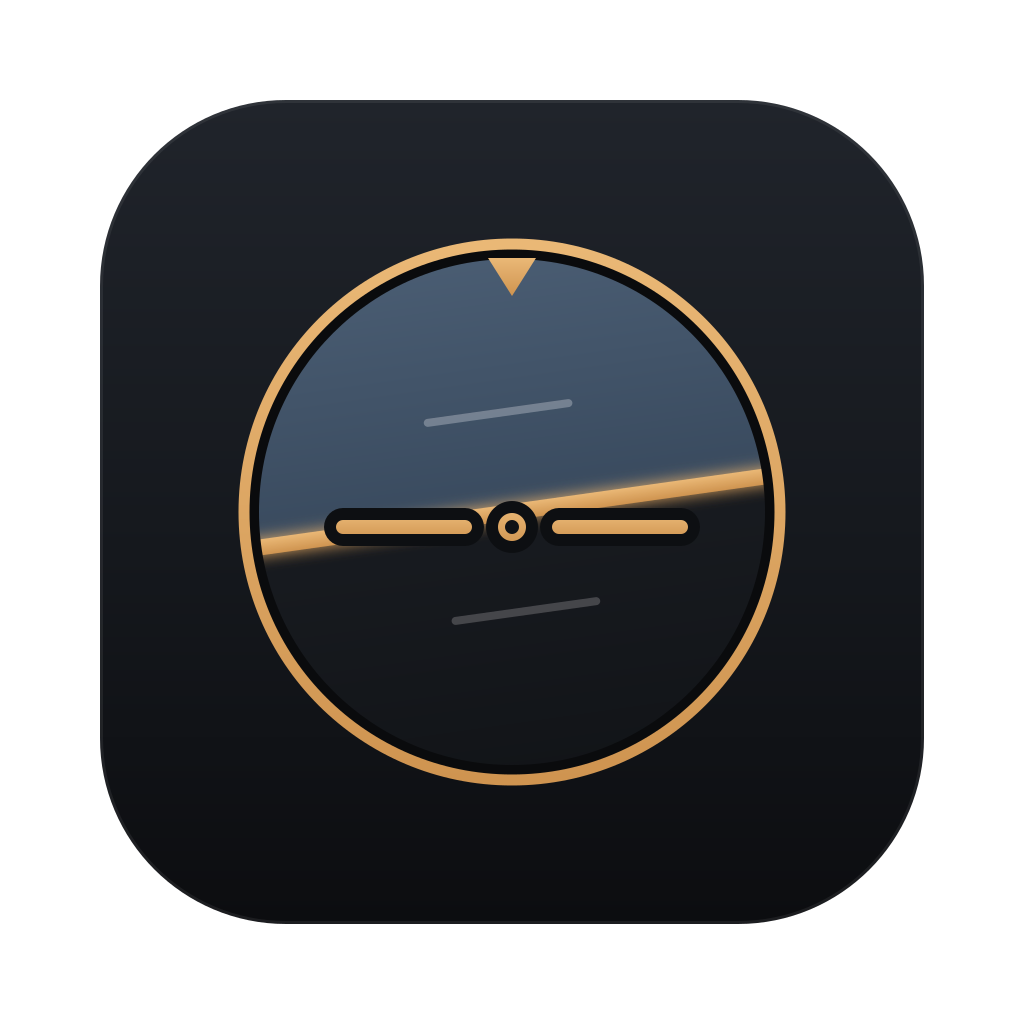
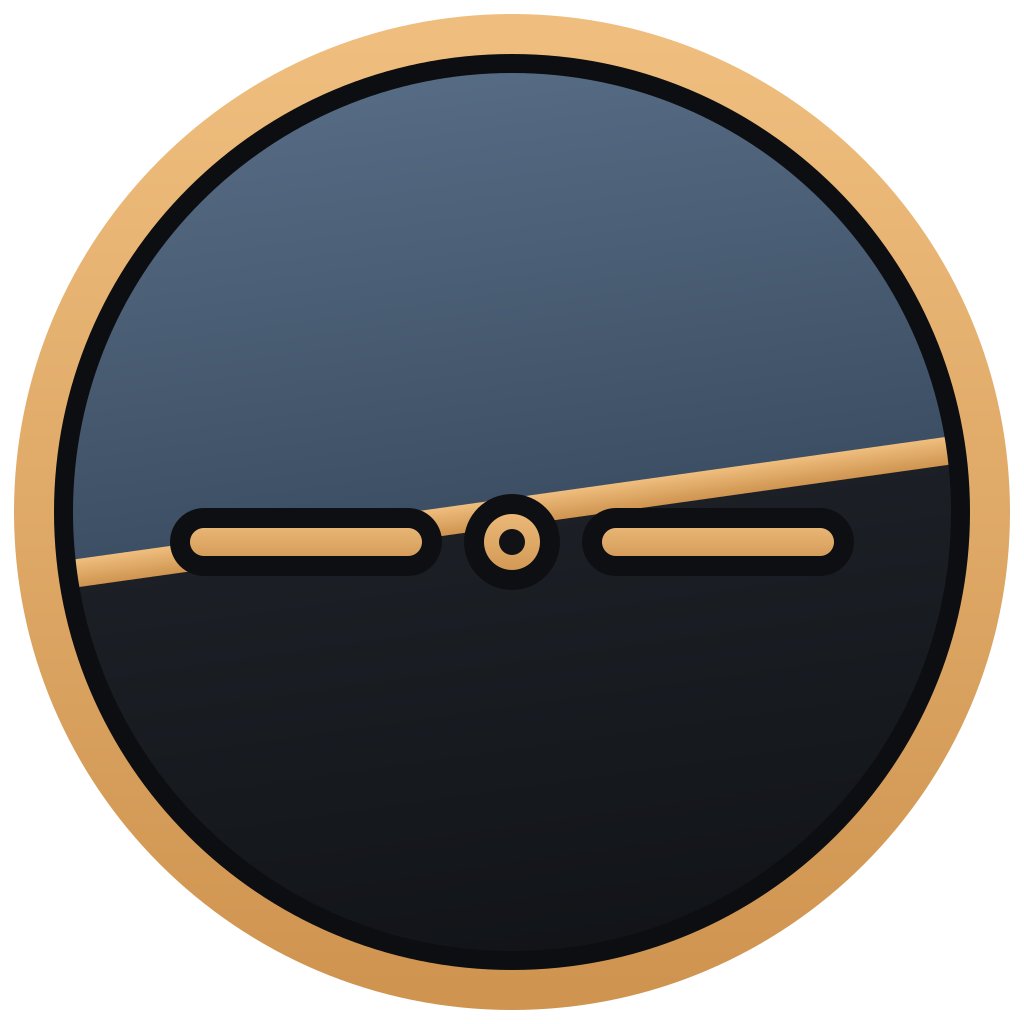
fix(marca): glifo dedicado da UI + semáforos alinhados de verdade
Ícone: o Wordmark/Reticle e o empty state usavam o ícone COMPLETO do Dock
(squircle escuro com margem) → em 18px no dark virava um blob preto
ilegível. Agora usa um GLIFO dedicado: só o mostrador do instrumento,
full-bleed, elementos mais grossos, aro brass que lê em qualquer tema.
(O ícone do Dock/.app segue o squircle; são assets diferentes de propósito.)

Semáforos: o decorum reaplica a CONSTANTE y=16 num observer de resize dele,
sobrescrevendo qualquer set_traffic_lights_inset (por isso 22 e 30 davam o
mesmo resultado — ambos resetados). Agora reaplicamos nosso inset em
Resized/Moved/Focused no on_window_event (roda DEPOIS: o delegate do
decorum chama super = Tauri). Valor y=37 calibrado por 2 medições no app
real (slope 0.67) → semáforos centrados no header de 56px, alinhados com a
marca. Persiste após resize do usuário.

Verde: cargo check, tsc, 227 testes.

diff --git a/app/src-tauri/src/lib.rs b/app/src-tauri/src/lib.rs
@@ -2,6 +2,11 @@ use tauri::Manager;
 use tauri_plugin_decorum::WebviewWindowExt;
 use tauri_plugin_sql::{Builder as SqlBuilder, Migration, MigrationKind};
 
+/// Inset Y dos semáforos p/ centrá-los no header de 56px (h-14). Calibrado por
+/// medição no app real (o inset do decorum não é o centro geométrico do botão).
+#[cfg(target_os = "macos")]
+const TRAFFIC_LIGHTS_Y: f32 = 37.0;
+
 mod adapters;
 mod agent;
 mod approval;
@@ -295,9 +300,13 @@ pub fn run() {
                 .get_webview_window("main")
                 .ok_or("janela main ausente")?;
             main_window.create_overlay_titlebar()?;
-            // Semáforos centrados no header de 56px (h-14): center 28 − ~6 = 22.
+            // Semáforos centrados no header de 56px (h-14). Valor calibrado por
+            // medição no app (o inset do decorum NÃO é o centro do botão).
+            // O decorum reaplica a CONSTANTE (y=16) no observer de resize dele →
+            // reaplicamos o nosso a cada evento de janela (ver on_window_event),
+            // que roda DEPOIS (o delegate do decorum chama super = Tauri).
             #[cfg(target_os = "macos")]
-            main_window.set_traffic_lights_inset(18.0, 22.0)?;
+            main_window.set_traffic_lights_inset(18.0, TRAFFIC_LIGHTS_Y)?;
 
             // Tray: o app vive na barra de menu com a janela fechada (as
             // automações agendadas continuam); só "Sair" encerra de verdade.
@@ -309,6 +318,20 @@ pub fn run() {
         // do tray NÃO passam por aqui (viram ExitRequested) e encerram normal.
         .on_window_event(|window, event| {
             if window.label() == "main" {
+                // Reaplica o inset dos semáforos DEPOIS do decorum (que reseta
+                // pra y=16 no resize dele): resize/move/foco durante o boot ou
+                // pelo usuário reposicionavam os botões pro topo, desalinhando.
+                #[cfg(target_os = "macos")]
+                if matches!(
+                    event,
+                    tauri::WindowEvent::Resized(_)
+                        | tauri::WindowEvent::Moved(_)
+                        | tauri::WindowEvent::Focused(true)
+                ) {
+                    if let Some(w) = window.app_handle().get_webview_window("main") {
+                        let _ = w.set_traffic_lights_inset(18.0, TRAFFIC_LIGHTS_Y);
+                    }
+                }
                 if let tauri::WindowEvent::CloseRequested { api, .. } = event {
                     api.prevent_close();
                     if tray::should_keep_in_tray(window.app_handle()) {
